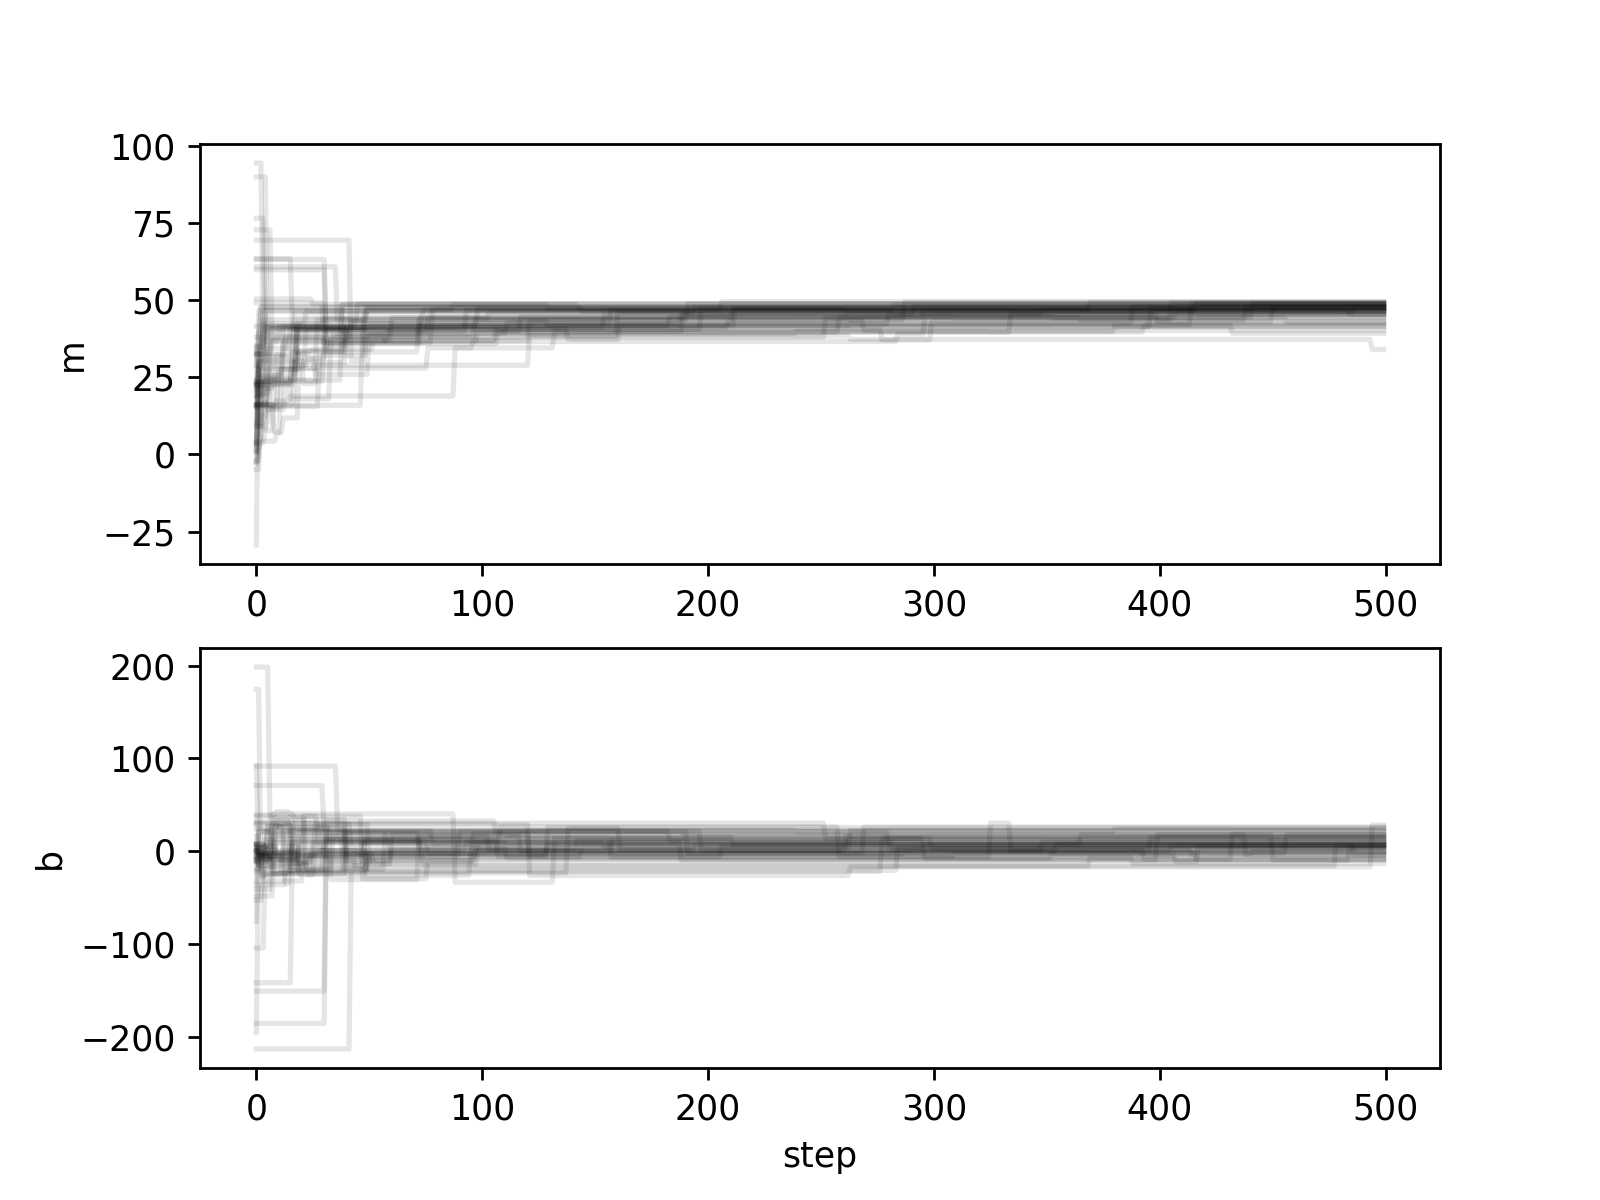
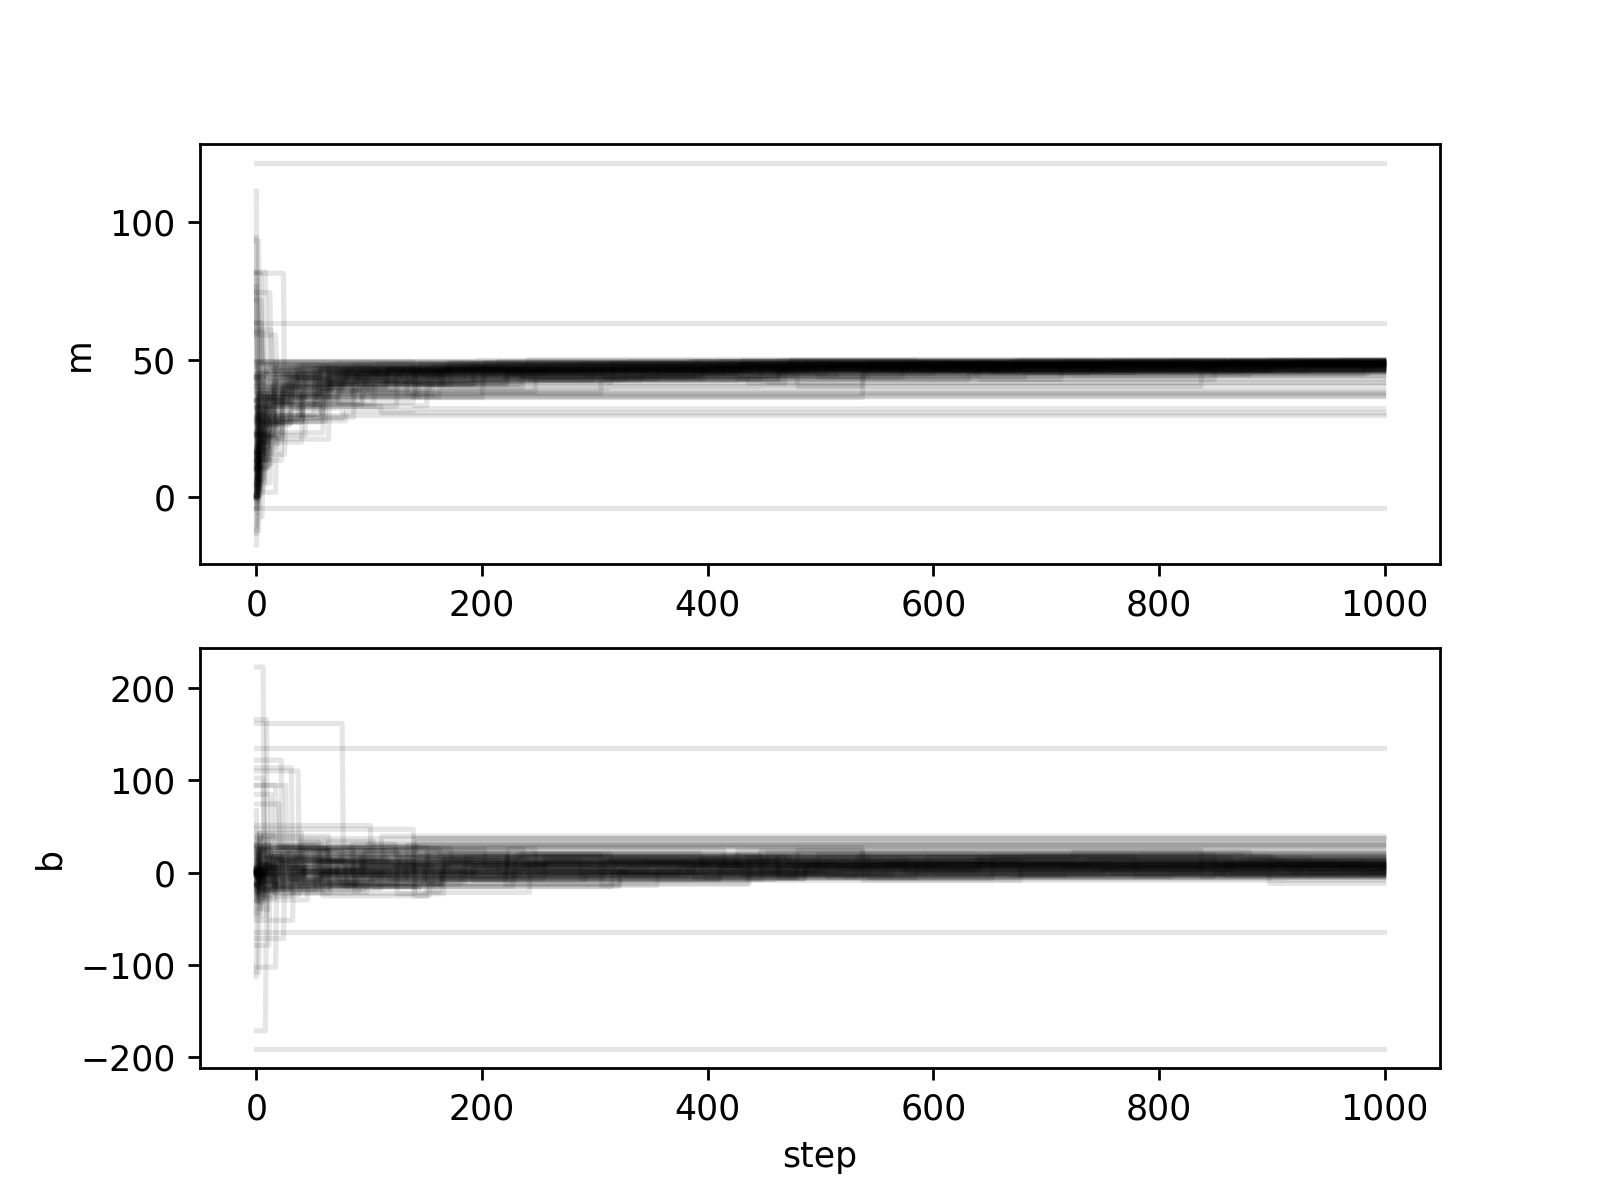
affine invariant gif

diff --git a/mcmc/affine_invariant_mcmc.py b/mcmc/affine_invariant_mcmc.py
@@ -4,6 +4,8 @@ Basic implementation of the Affine-invariant stretch move.
 
 import numpy as np
 import matplotlib.pyplot as plt
+from PIL import Image
+import os
 
 global times, y, y_err
 
@@ -95,7 +97,7 @@ def affine_invariant_mcmc(
     b_ensemble = np.random.normal(b_initial_guess, scale=100, size=num_walkers)
 
     for i in range(num_steps):
-        print(f"{i}/{num_steps} steps.", end="\r")
+        print(f"{i+1}/{num_steps} steps.", end="\r")
         for j in range(num_walkers):
 
             m_current, b_current = get_next_state_single_walker(
@@ -117,8 +119,8 @@ def affine_invariant_mcmc(
 if __name__ == "__main__":
     np.random.seed(10)
 
-    num_steps = 500
-    num_walkers = 50
+    num_steps = 1000
+    num_walkers = 100
 
     m_markov_chain, b_markov_chain = affine_invariant_mcmc(
         num_walkers=num_walkers, num_steps=num_steps
@@ -133,3 +135,38 @@ if __name__ == "__main__":
     ax[0].set_ylabel("m")
     ax[1].set_ylabel("b")
     plt.savefig("AI_markov_chain.png", dpi=250)
+    plt.close()
+
+    # make a fun gif
+    os.system("rm gif/*")
+    print()
+    for i in range(num_steps):
+        print(f"Making gif frame {i}/{num_steps}.", end="\r")
+        fig, ax = plt.subplots(figsize=(5, 5))
+        plt.text(-20, 200, f"Step {i+1}/{num_steps}")
+
+        plt.scatter(
+            m_markov_chain[:, i],
+            b_markov_chain[:, i],
+            color="grey",
+            alpha=0.5,
+        )
+
+        plt.xlim(-30, 80)
+        plt.ylim(-50, 250)
+        plt.xlabel("m")
+        plt.ylabel("b")
+        plt.savefig(f"gif/step{i}.png", dpi=250)
+        plt.close()
+
+    frames = [Image.open(f"gif/step{i}.png") for i in range(num_steps)]
+
+    print()
+    print("Saving gif...")
+    frames[0].save(
+        "affine_sampler.gif",
+        save_all=True,
+        append_images=frames[1:],
+        duration=20,
+        loop=0,  # 0 means infinite loop
+    )
